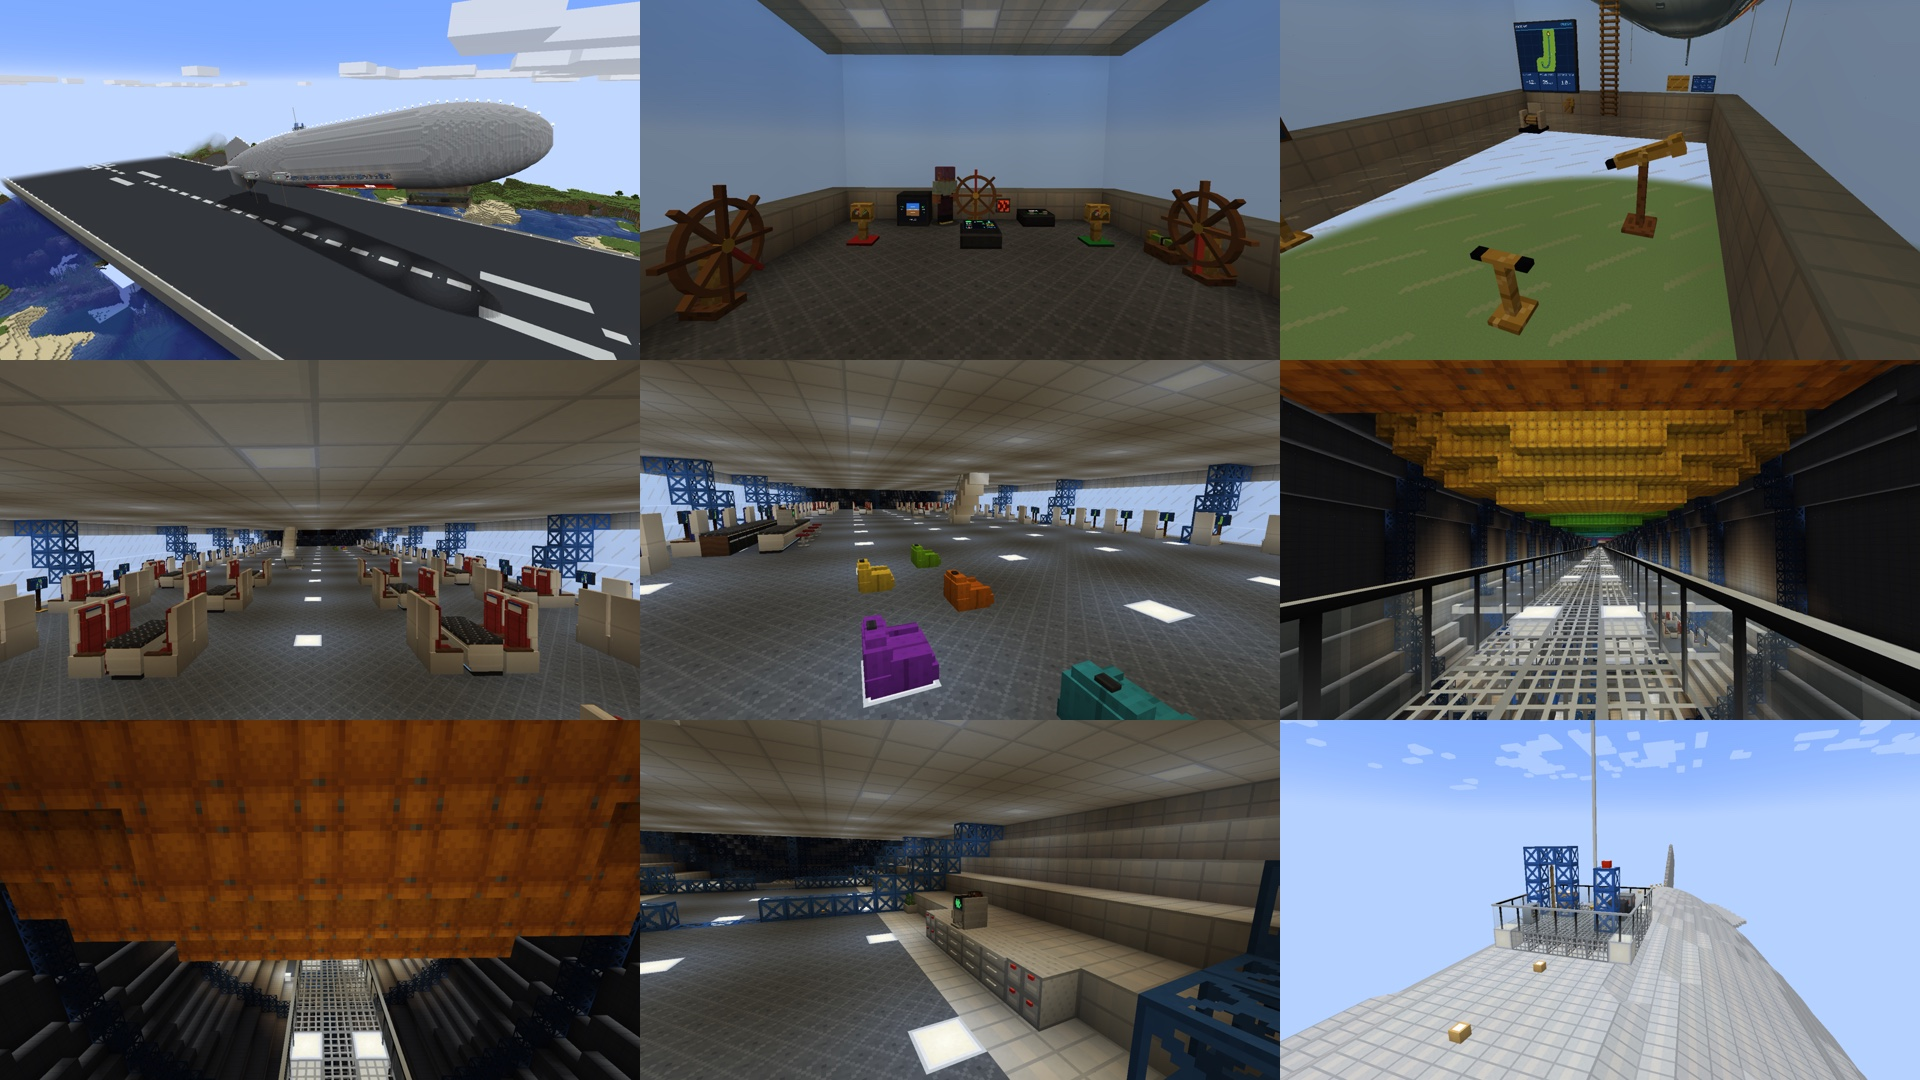
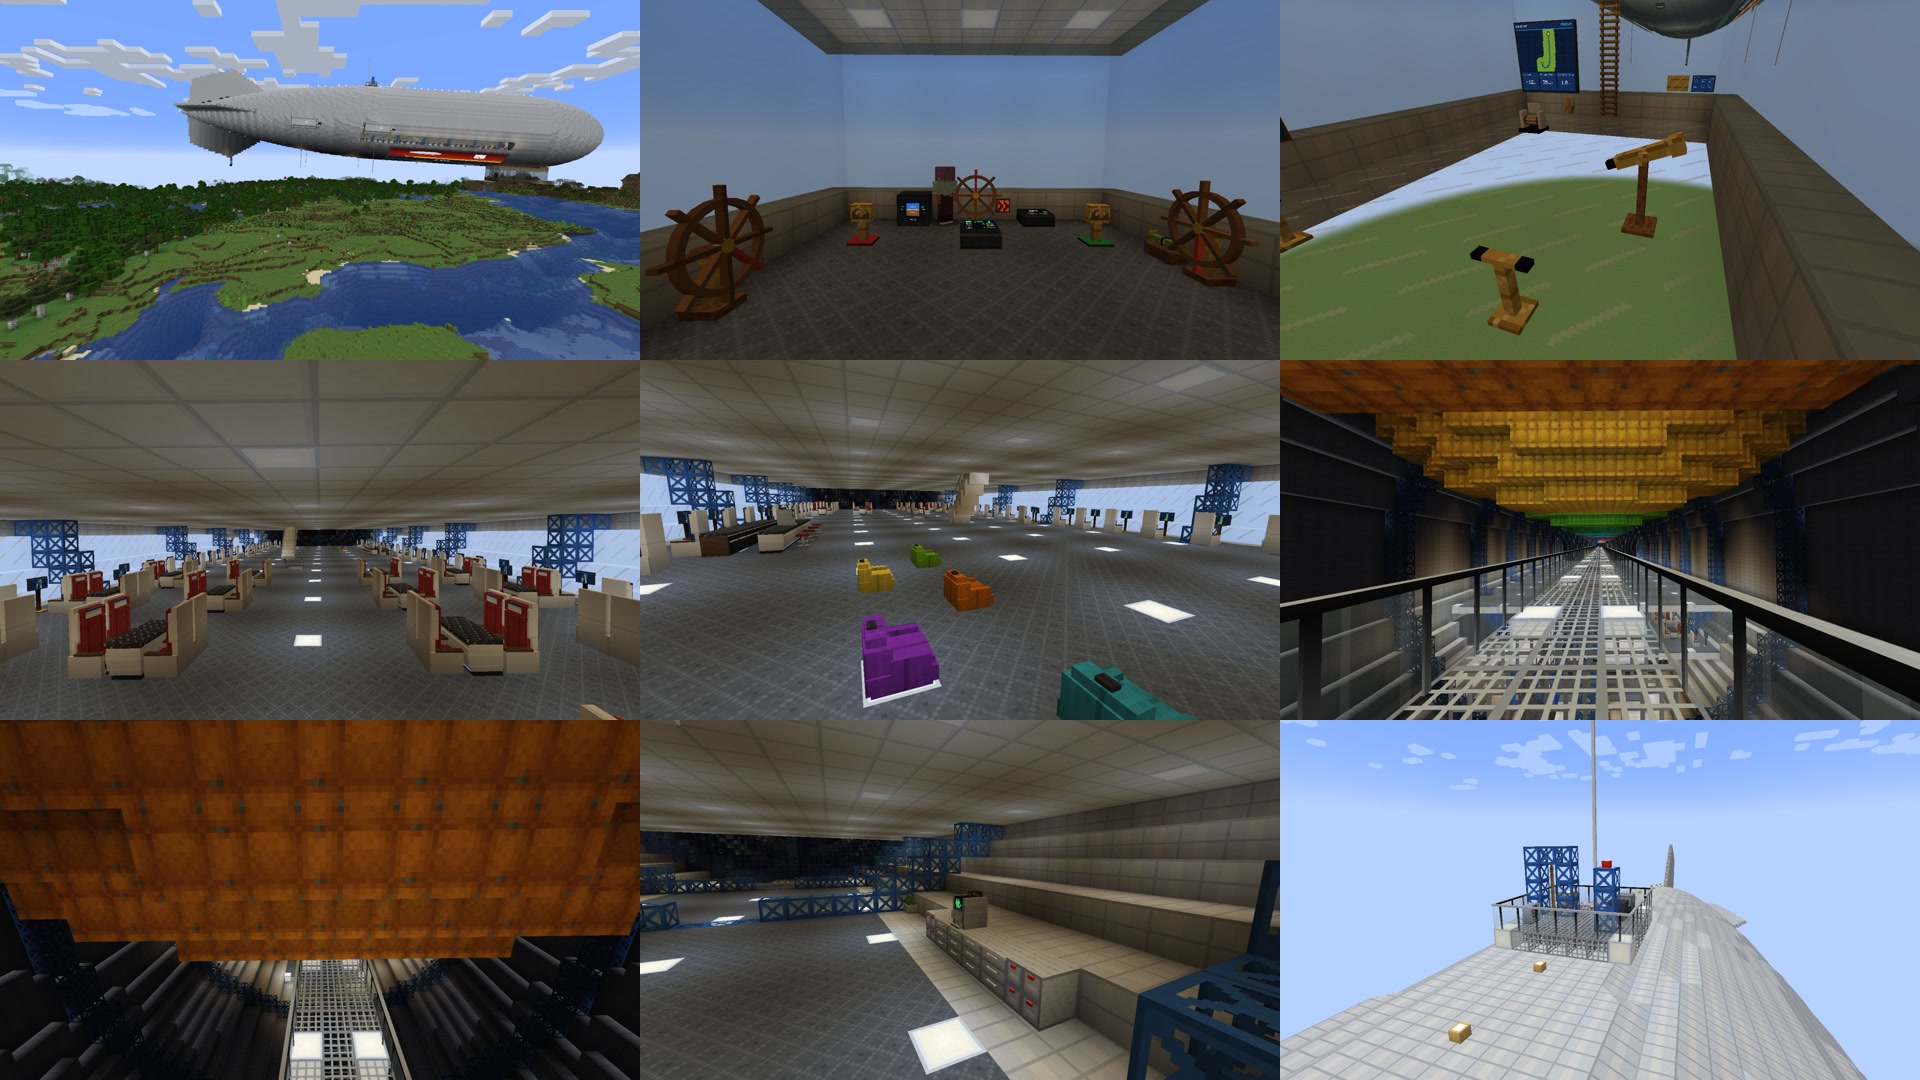
docs(readme): open on all four skyliners, the zeppelin rising off a meadow
The README now opens on a two-by-two table of the four ships, the freighter
first, each lifting off: the freighter and the zeppelin from a meadow by a
river, newly shot, the airliner from its runway and the rocket from her pad.

No picture shows the zeppelin taking off from a runway any more: the two of
her over one are gone, her mosaic opens on the meadow instead, and the
screenshots' zeppelin row opens on her control car. The rocket's row shows
her pool now that her lift-off heads the page.

Claude-Session: https://claude.ai/code/session_01JgEJTjGCiWZLxHEWcyKn7F

Changed region(s): [[0.0, 0.0, 0.3438, 0.3361]]

diff --git a/README.md b/README.md
@@ -1,6 +1,15 @@
 # Create: Skyliners
 
-![The airliner lifting off over the end of the runway](docs/images/airliner-take-off.jpg)
+<table>
+  <tr>
+    <td><img src="docs/images/freighter-lift-off.jpg" alt="The freighter lifting off a meadow on her thrusters"><br><sub>The freighter</sub></td>
+    <td><img src="docs/images/airliner-take-off.jpg" alt="The airliner lifting off over the end of the runway"><br><sub>The airliner</sub></td>
+  </tr>
+  <tr>
+    <td><img src="docs/images/zeppelin-lift-off.jpg" alt="The zeppelin rising over a meadow by a river, her mooring lines still hanging"><br><sub>The zeppelin</sub></td>
+    <td><img src="docs/images/rocket-lift-off.jpg" alt="The rocket lifting off her launch pad"><br><sub>The rocket</sub></td>
+  </tr>
+</table>
 
 Giant aircraft for [Create](https://modrinth.com/mod/create) and
 [Create Aeronautics](https://modrinth.com/mod/create-aeronautics), each laid down whole by a single blueprint: an
@@ -43,13 +52,13 @@ Every control is a picture, a colour or a sound, so players who cannot read yet 
     <td><img src="docs/images/lounge-bar.jpg" alt="The lounge bar under a starlit ceiling"><br><sub>The lounge bar</sub></td>
   </tr>
   <tr>
-    <td><img src="docs/images/zeppelin-over-the-runway.jpg" alt="The zeppelin lifting off the runway"><br><sub>The zeppelin lifting off</sub></td>
+    <td><img src="docs/images/zeppelin-control-car.jpg" alt="The zeppelin's control car, with its wheels and engine telegraphs"><br><sub>The zeppelin's control car</sub></td>
     <td><img src="docs/images/zeppelin-inside-the-hull.jpg" alt="Inside the zeppelin's hull, under its gas cells"><br><sub>Inside her hull</sub></td>
     <td><img src="docs/images/zeppelin-passenger-deck.jpg" alt="The zeppelin's passenger deck"><br><sub>Her passenger deck</sub></td>
   </tr>
   <tr>
     <td><img src="docs/images/rocket-on-launch-pad.jpg" alt="The rocket on its launch pad"><br><sub>The rocket on her pad</sub></td>
-    <td><img src="docs/images/rocket-lift-off.jpg" alt="The rocket lifting off"><br><sub>Lift-off</sub></td>
+    <td><img src="docs/images/rocket-pool.jpg" alt="The pool round the rocket's glass lift shaft"><br><sub>Her pool</sub></td>
     <td><img src="docs/images/rocket-cockpit.jpg" alt="The rocket's cockpit"><br><sub>Her cockpit</sub></td>
   </tr>
 </table>
